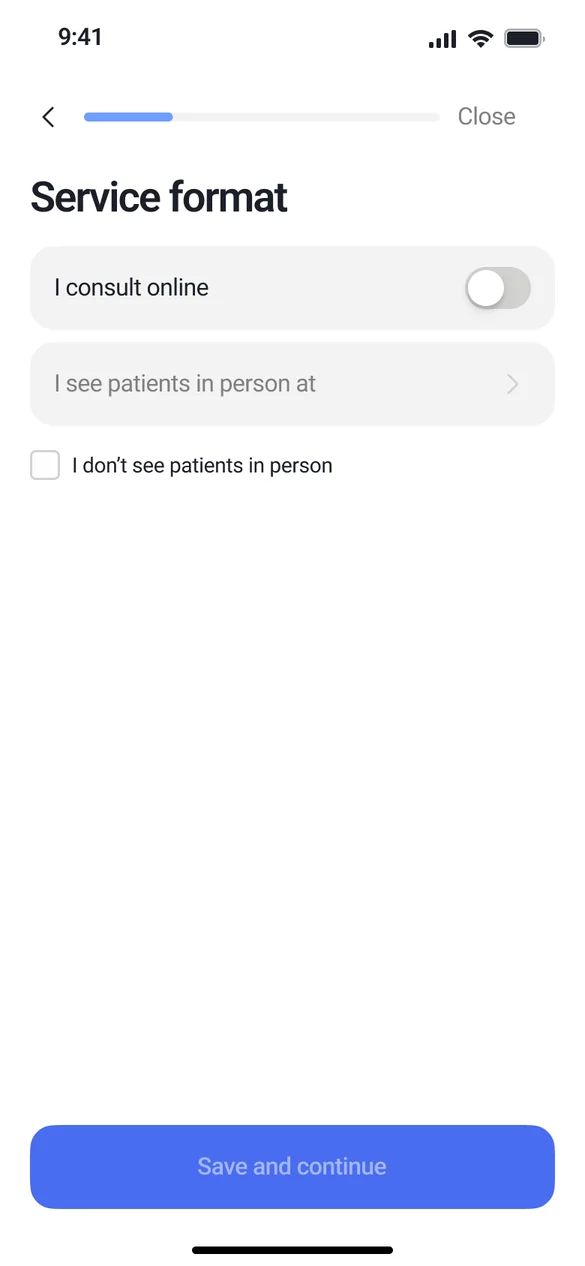
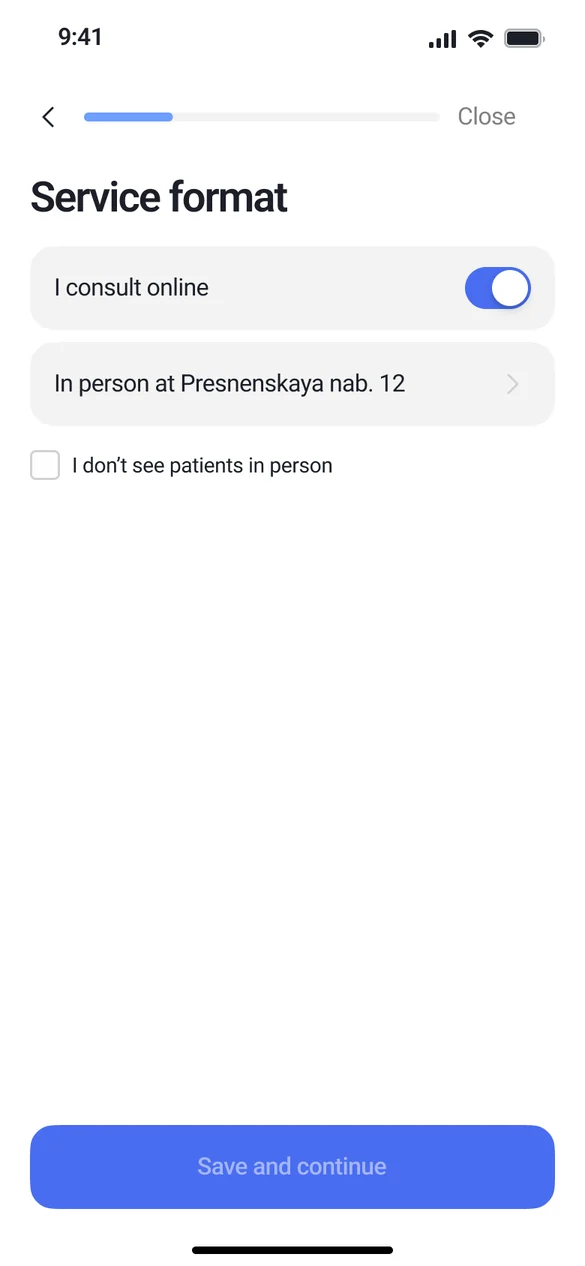
Fill in the two application screens instead of showing them untouched
Both screens added to section 1 stood in their blank state. The format
step had the online toggle off and the in-person row empty, so the step
read as one nobody had answered. On the services step three of five rows
were unticked but still printed a price in the placeholder grey, which
made a price that had been set and an empty field look the same.

The format step is now switched on with an address, and the services step
ticks the four services the specialist offers, each price in the text
colour rather than the placeholder grey, with the nutrition-plan row left
unticked and empty.

Both controls came out of the component set in the store's green — the
toggle's On state and the checkbox's ticked state. Repainted to #496DF0,
the blue the rows that were already ticked use, since this section is
blue throughout.

Assets re-exported at 2x from Figma and bumped to ?v=3.

Changed region(s): [[0.0923, 0.2773, 0.6154, 0.3081], [0.8, 0.1848, 0.9231, 0.2464], [0.6462, 0.2773, 0.6769, 0.3081]]

diff --git a/ru/itab-specialists.html b/ru/itab-specialists.html
@@ -173,12 +173,12 @@
 
         <figure class="case__figure">
           <div class="case__figure-desktop case__itab-board case__itab-board--duo" aria-label="Анкета: услуги с ценами и формат приёма">
-            <img class="case__itab-board-phone case__itab-board-phone--first" src="../assets/case-itab-sp-q-services.webp?v=2" alt="Шаг анкеты — услуги и консультации: что специалист проводит и по какой цене" loading="lazy" width="585" height="1266">
-            <img class="case__itab-board-phone case__itab-board-phone--second" src="../assets/case-itab-sp-q-format.webp?v=2" alt="Шаг анкеты — формат приёма: онлайн, очно по адресу или только очно" loading="lazy" width="585" height="1266">
+            <img class="case__itab-board-phone case__itab-board-phone--first" src="../assets/case-itab-sp-q-services.webp?v=3" alt="Шаг анкеты — услуги и консультации: что специалист проводит и по какой цене" loading="lazy" width="585" height="1266">
+            <img class="case__itab-board-phone case__itab-board-phone--second" src="../assets/case-itab-sp-q-format.webp?v=3" alt="Шаг анкеты — формат приёма: онлайн, очно по адресу или только очно" loading="lazy" width="585" height="1266">
           </div>
           <div class="case__slider" role="group" aria-label="Пролистайте два шага анкеты: услуги с ценами и формат приёма">
-            <div class="case__slide"><img class="case__shot case__shot--phone" src="../assets/case-itab-sp-q-services.webp?v=2" alt="Шаг анкеты — услуги и консультации: что специалист проводит и по какой цене" loading="lazy" width="585" height="1266"></div>
-            <div class="case__slide"><img class="case__shot case__shot--phone" src="../assets/case-itab-sp-q-format.webp?v=2" alt="Шаг анкеты — формат приёма: онлайн, очно по адресу или только очно" loading="lazy" width="585" height="1266"></div>
+            <div class="case__slide"><img class="case__shot case__shot--phone" src="../assets/case-itab-sp-q-services.webp?v=3" alt="Шаг анкеты — услуги и консультации: что специалист проводит и по какой цене" loading="lazy" width="585" height="1266"></div>
+            <div class="case__slide"><img class="case__shot case__shot--phone" src="../assets/case-itab-sp-q-format.webp?v=3" alt="Шаг анкеты — формат приёма: онлайн, очно по адресу или только очно" loading="lazy" width="585" height="1266"></div>
           </div>
           <figcaption>Цена и формат задаются здесь же: карточка в каталоге и фильтры собираются из ответов анкеты, а не заводятся отдельно.</figcaption>
         </figure>

diff --git a/itab-specialists.html b/itab-specialists.html
@@ -180,12 +180,12 @@
 
         <figure class="case__figure">
           <div class="case__figure-desktop case__itab-board case__itab-board--duo" aria-label="The application: services with prices and the service format">
-            <img class="case__itab-board-phone case__itab-board-phone--first" src="assets/case-itab-sp-q-services.webp?v=2" alt="Application step — services and consultations the specialist runs, each with its price" loading="lazy" width="1170" height="2532">
-            <img class="case__itab-board-phone case__itab-board-phone--second" src="assets/case-itab-sp-q-format.webp?v=2" alt="Application step — service format: online, in person at an address, or in person only" loading="lazy" width="1170" height="2532">
+            <img class="case__itab-board-phone case__itab-board-phone--first" src="assets/case-itab-sp-q-services.webp?v=3" alt="Application step — services and consultations the specialist runs, each with its price" loading="lazy" width="1170" height="2532">
+            <img class="case__itab-board-phone case__itab-board-phone--second" src="assets/case-itab-sp-q-format.webp?v=3" alt="Application step — service format: online, in person at an address, or in person only" loading="lazy" width="1170" height="2532">
           </div>
           <div class="case__slider" role="group" aria-label="Swipe through two application steps: services with prices and the service format">
-            <div class="case__slide"><img class="case__shot case__shot--phone" src="assets/case-itab-sp-q-services.webp?v=2" alt="Application step — services and consultations the specialist runs, each with its price" loading="lazy" width="1170" height="2532"></div>
-            <div class="case__slide"><img class="case__shot case__shot--phone" src="assets/case-itab-sp-q-format.webp?v=2" alt="Application step — service format: online, in person at an address, or in person only" loading="lazy" width="1170" height="2532"></div>
+            <div class="case__slide"><img class="case__shot case__shot--phone" src="assets/case-itab-sp-q-services.webp?v=3" alt="Application step — services and consultations the specialist runs, each with its price" loading="lazy" width="1170" height="2532"></div>
+            <div class="case__slide"><img class="case__shot case__shot--phone" src="assets/case-itab-sp-q-format.webp?v=3" alt="Application step — service format: online, in person at an address, or in person only" loading="lazy" width="1170" height="2532"></div>
           </div>
           <figcaption>Price and format are set here: the catalogue card and its filters are built from the application’s answers, not entered somewhere else.</figcaption>
         </figure>
